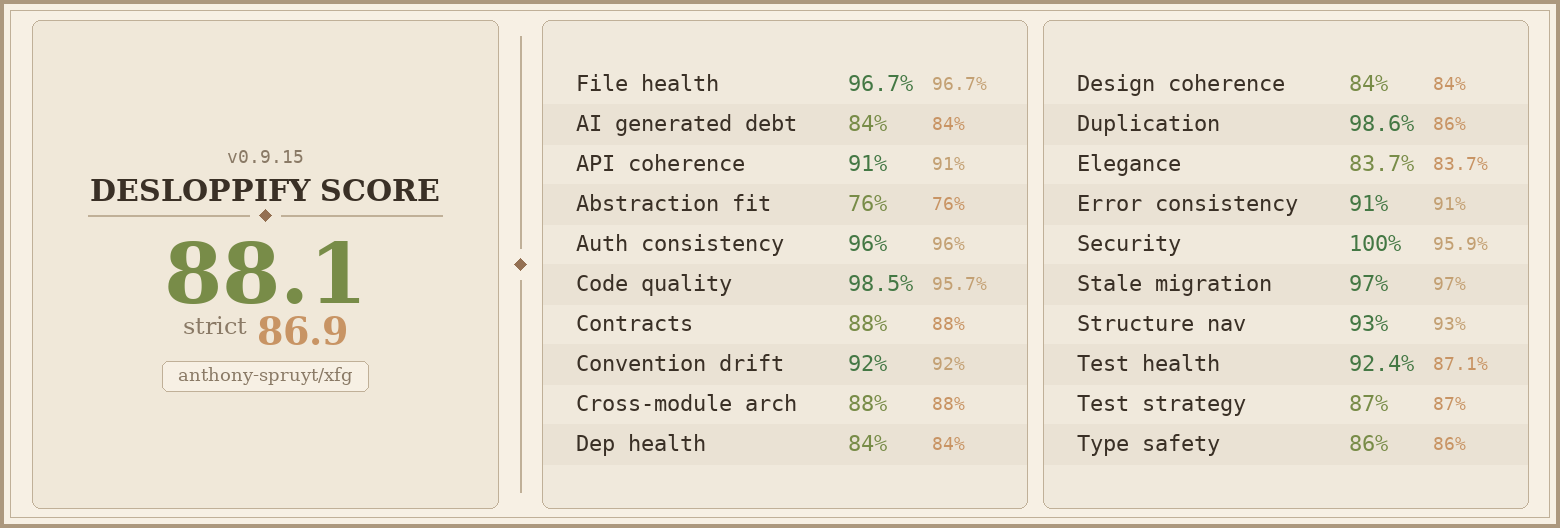
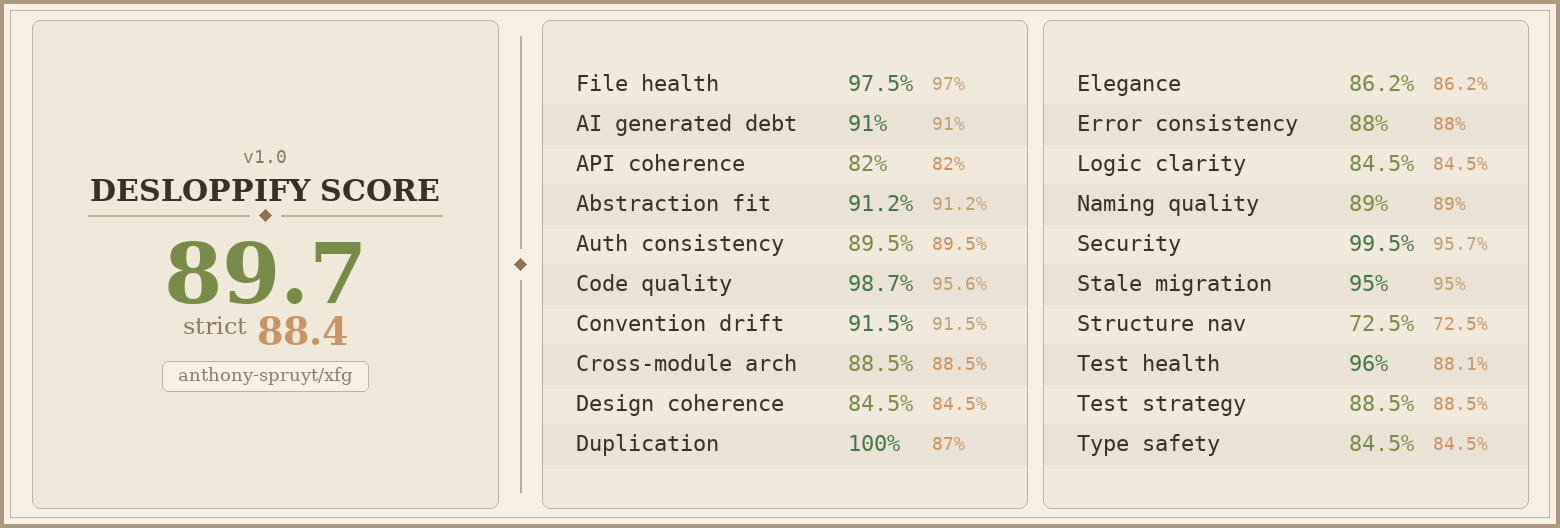
desloppify: fix mechanical code quality issues
- Add exhaustive default cases to 5 switch statements
- Extract magic numbers into named constants (MS_PER_SECOND, MAX_ERROR_MESSAGE_LENGTH)
- Remove unused import (MATCH_KEY_CANDIDATES)
- Fix bare catch in encryption.ts to preserve error cause
- Simplify hasAnyChanges boolean return pattern
- Extract validateGitHubResourceName and checkVariableSecretOverlap helpers
- Add development section to README
- Add desloppify scorecard

diff --git a/src/config/validator.ts b/src/config/validator.ts
@@ -350,6 +350,26 @@ export function validateForSync(config: RawConfig): void {
   validateVariableSecretOverlaps(config);
 }
 
+function checkVariableSecretOverlap(
+  vars: Record<string, unknown>,
+  secretNames: Set<string>,
+  context: string
+): void {
+  const { deleteOrphaned: _d, inherit: _i, ...varEntries } = vars;
+  const variableNames = Object.keys(varEntries).filter(
+    (k) => typeof varEntries[k] !== "boolean"
+  );
+  const overlapping = variableNames.filter((n) =>
+    secretNames.has(n.toUpperCase())
+  );
+  if (overlapping.length > 0) {
+    throw new ValidationError(
+      `${context}${overlapping.join(", ")} overlap between variables and secrets. ` +
+        "GitHub does not allow variables and secrets with the same name."
+    );
+  }
+}
+
 export function validateVariableSecretOverlaps(config: RawConfig): void {
   if (!config.secrets) return;
 
@@ -365,66 +385,31 @@ export function validateVariableSecretOverlaps(config: RawConfig): void {
 
   // Check root-level variables
   if (config.settings?.variables) {
-    const {
-      deleteOrphaned: _rd,
-      inherit: _ri,
-      ...rootVarEntries
-    } = config.settings.variables as Record<string, unknown>;
-    const rootVariableNames = Object.keys(rootVarEntries).filter(
-      (k) => typeof rootVarEntries[k] !== "boolean"
+    checkVariableSecretOverlap(
+      config.settings.variables as Record<string, unknown>,
+      secretNames,
+      ""
     );
-    const overlapping = rootVariableNames.filter((n) =>
-      secretNames.has(n.toUpperCase())
-    );
-    if (overlapping.length > 0) {
-      throw new ValidationError(
-        `${overlapping.join(", ")} overlap between root variables and secrets. ` +
-          "GitHub does not allow variables and secrets with the same name."
-      );
-    }
   }
 
+  // Check repo-level variables
   for (const repo of config.repos) {
-    const {
-      deleteOrphaned: _d,
-      inherit: _i,
-      ...varEntries
-    } = (repo.settings?.variables ?? {}) as Record<string, unknown>;
-    const variableNames = Object.keys(varEntries).filter(
-      (k) => typeof varEntries[k] !== "boolean"
+    checkVariableSecretOverlap(
+      (repo.settings?.variables ?? {}) as Record<string, unknown>,
+      secretNames,
+      `Repo '${repo.git}': `
     );
-    const overlapping = variableNames.filter((n) =>
-      secretNames.has(n.toUpperCase())
-    );
-    if (overlapping.length > 0) {
-      throw new ValidationError(
-        `Repo '${repo.git}': ${overlapping.join(", ")} overlap between variables and secrets. ` +
-          "GitHub does not allow variables and secrets with the same name."
-      );
-    }
   }
 
   // Check group-level variables
   if (isPlainObject(config.groups)) {
     for (const [groupName, group] of Object.entries(config.groups)) {
       if (!group.settings?.variables) continue;
-      const {
-        deleteOrphaned: _gd,
-        inherit: _gi,
-        ...groupVarEntries
-      } = group.settings.variables as Record<string, unknown>;
-      const groupVariableNames = Object.keys(groupVarEntries).filter(
-        (k) => typeof groupVarEntries[k] !== "boolean"
+      checkVariableSecretOverlap(
+        group.settings.variables as Record<string, unknown>,
+        secretNames,
+        `Group '${groupName}': `
       );
-      const overlapping = groupVariableNames.filter((n) =>
-        secretNames.has(n.toUpperCase())
-      );
-      if (overlapping.length > 0) {
-        throw new ValidationError(
-          `Group '${groupName}': ${overlapping.join(", ")} overlap between variables and secrets. ` +
-            "GitHub does not allow variables and secrets with the same name."
-        );
-      }
     }
   }
 
@@ -433,23 +418,11 @@ export function validateVariableSecretOverlaps(config: RawConfig): void {
     for (let i = 0; i < config.conditionalGroups.length; i++) {
       const cg = config.conditionalGroups[i];
       if (!cg.settings?.variables) continue;
-      const {
-        deleteOrphaned: _cd,
-        inherit: _ci,
-        ...cgVarEntries
-      } = cg.settings.variables as Record<string, unknown>;
-      const cgVariableNames = Object.keys(cgVarEntries).filter(
-        (k) => typeof cgVarEntries[k] !== "boolean"
+      checkVariableSecretOverlap(
+        cg.settings.variables as Record<string, unknown>,
+        secretNames,
+        `Conditional group ${i}: `
       );
-      const overlapping = cgVariableNames.filter((n) =>
-        secretNames.has(n.toUpperCase())
-      );
-      if (overlapping.length > 0) {
-        throw new ValidationError(
-          `Conditional group ${i}: ${overlapping.join(", ")} overlap between variables and secrets. ` +
-            "GitHub does not allow variables and secrets with the same name."
-        );
-      }
     }
   }
 }
@@ -495,30 +468,28 @@ export function hasActionableSettings(
   return false;
 }
 
-export function validateVariableName(name: string): void {
+function validateGitHubResourceName(
+  name: string,
+  kind: "Variable" | "Secret"
+): void {
   if (!VARIABLE_NAME_PATTERN.test(name)) {
     throw new ValidationError(
-      `Variable name '${name}' contains invalid characters. Only alphanumeric and underscore allowed.`
+      `${kind} name '${name}' contains invalid characters. Only alphanumeric and underscore allowed.`
     );
   }
   if (name.startsWith("GITHUB_")) {
     throw new ValidationError(
-      `Variable name '${name}' cannot start with 'GITHUB_' (reserved prefix).`
+      `${kind} name '${name}' cannot start with 'GITHUB_' (reserved prefix).`
     );
   }
 }
 
+export function validateVariableName(name: string): void {
+  validateGitHubResourceName(name, "Variable");
+}
+
 export function validateSecretName(name: string): void {
-  if (!VARIABLE_NAME_PATTERN.test(name)) {
-    throw new ValidationError(
-      `Secret name '${name}' contains invalid characters. Only alphanumeric and underscore allowed.`
-    );
-  }
-  if (name.startsWith("GITHUB_")) {
-    throw new ValidationError(
-      `Secret name '${name}' cannot start with 'GITHUB_' (reserved prefix).`
-    );
-  }
+  validateGitHubResourceName(name, "Secret");
 }
 
 function validateSecretEntry(name: string, config: SecretConfig): void {

diff --git a/src/vcs/graphql-commit-strategy.ts b/src/vcs/graphql-commit-strategy.ts
@@ -16,6 +16,9 @@ import { parseApiJson } from "../shared/json-utils.js";
 import { buildHostnameArgs, buildTokenEnv } from "../shared/gh-api-utils.js";
 import { ValidationError, GraphQLApiError } from "../shared/errors.js";
 
+/** Maximum length for GraphQL API error messages before truncation */
+const MAX_ERROR_MESSAGE_LENGTH = 2000;
+
 /**
  * Maximum payload size for GitHub GraphQL API (50MB).
  * Base64 encoding adds ~33% overhead, so raw content should be checked.
@@ -405,8 +408,9 @@ export class GraphQLCommitStrategy implements ICommitStrategy {
     }
 
     // Safety truncation for any remaining oversized messages
-    if (cleanMessage.length > 2000) {
-      cleanMessage = cleanMessage.substring(0, 2000) + "... (truncated)";
+    if (cleanMessage.length > MAX_ERROR_MESSAGE_LENGTH) {
+      cleanMessage =
+        cleanMessage.substring(0, MAX_ERROR_MESSAGE_LENGTH) + "... (truncated)";
     }
 
     return new GraphQLApiError(`Commit failed for ${repo}: ${cleanMessage}`, {

diff --git a/src/shared/retry-utils.ts b/src/shared/retry-utils.ts
@@ -111,6 +111,9 @@ export function isRateLimitError(error: unknown): boolean {
 /** Default delay (seconds) for rate limit errors when no Retry-After header is available. */
 const RATE_LIMIT_FALLBACK_DELAY_SECONDS = 60;
 
+/** Milliseconds per second, used to convert delay values for setTimeout. */
+const MS_PER_SECOND = 1000;
+
 function delay(ms: number): Promise<void> {
   return new Promise((resolve) => setTimeout(resolve, ms));
 }
@@ -217,7 +220,7 @@ export async function withRetry<T>(
           options?.log?.info(
             `Rate limited. Waiting ${retryAfterSeconds}s before retry...`
           );
-          await (options?._delay ?? delay)(retryAfterSeconds * 1000);
+          await (options?._delay ?? delay)(retryAfterSeconds * MS_PER_SECOND);
         }
 
         // Log the failure (existing behavior)

diff --git a/src/cli/unified-summary.ts b/src/cli/unified-summary.ts
@@ -124,19 +124,17 @@ function formatCombinedSummary(input: UnifiedSummaryInput): string {
 }
 
 function hasAnyChanges(input: UnifiedSummaryInput): boolean {
-  if (input.lifecycle && hasLifecycleChanges(input.lifecycle)) return true;
-  if (input.sync?.repos.some((r) => r.files.length > 0 || r.error)) return true;
-  if (
-    input.settings?.repos.some(
+  return (
+    (!!input.lifecycle && hasLifecycleChanges(input.lifecycle)) ||
+    !!input.sync?.repos.some((r) => r.files.length > 0 || r.error) ||
+    !!input.settings?.repos.some(
       (r) =>
         r.settings.length > 0 ||
         r.rulesets.length > 0 ||
         r.labels.length > 0 ||
         r.error
     )
-  )
-    return true;
-  return false;
+  );
 }
 
 // =============================================================================

diff --git a/src/vcs/github-app-token-manager.ts b/src/vcs/github-app-token-manager.ts
@@ -3,8 +3,11 @@ import { withRetry } from "../shared/retry-utils.js";
 import { SyncError } from "../shared/errors.js";
 import type { GitHubRepoInfo } from "../repo/index.js";
 
+/** Number of milliseconds per second */
+const MS_PER_SECOND = 1000;
+
 /** Duration to cache tokens (45 minutes in milliseconds) */
-const TOKEN_CACHE_DURATION_MS = 45 * 60 * 1000;
+const TOKEN_CACHE_DURATION_MS = 45 * 60 * MS_PER_SECOND;
 
 interface Installation {
   id: number;
@@ -57,7 +60,7 @@ export class GitHubAppTokenManager {
    * The JWT is signed with RS256 and valid for 10 minutes.
    */
   generateJWT(): string {
-    const now = Math.floor(Date.now() / 1000);
+    const now = Math.floor(Date.now() / MS_PER_SECOND);
 
     const header = {
       alg: "RS256",

diff --git a/src/secrets/encryption.ts b/src/secrets/encryption.ts
@@ -15,9 +15,10 @@ export class SodiumEncryptor implements ISecretEncryptor {
           const sodium = await import("libsodium-wrappers");
           await sodium.default.ready;
           this.sodium = sodium.default;
-        } catch {
+        } catch (error) {
           throw new Error(
-            "Failed to load libsodium-wrappers. Install it: npm install libsodium-wrappers"
+            "Failed to load libsodium-wrappers. Install it: npm install libsodium-wrappers",
+            { cause: error }
           );
         }
       })().catch((err) => {

diff --git a/src/settings/rulesets/diff.ts b/src/settings/rulesets/diff.ts
@@ -1,5 +1,5 @@
 import { RULESET_COMPARABLE_FIELDS, type Ruleset } from "../../config/index.js";
-import { MATCH_KEY_CANDIDATES, findMatchKey } from "../../config/merge.js";
+import { findMatchKey } from "../../config/merge.js";
 import { isPlainObject } from "../../shared/type-guards.js";
 import { camelToSnake } from "../../shared/string-utils.js";
 import { countActions, type SettingsAction } from "../base-processor.js";

diff --git a/src/settings/variables/processor.ts b/src/settings/variables/processor.ts
@@ -117,6 +117,11 @@ export class VariablesProcessor implements IVariablesProcessor {
           break;
         case "unchanged":
           break;
+
+        default: {
+          const _exhaustive: never = change.action;
+          throw new Error(`Unexpected variable action: ${String(_exhaustive)}`);
+        }
       }
     }
 

diff --git a/src/shared/file-status.ts b/src/shared/file-status.ts
@@ -12,5 +12,10 @@ export function formatStatusBadge(status: FileStatus): string {
       return chalk.gray("[UNCHANGED]");
     case "DELETED":
       return chalk.red("[DELETED]");
+
+    default: {
+      const _exhaustive: never = status;
+      throw new Error(`Unexpected file status: ${String(_exhaustive)}`);
+    }
   }
 }

diff --git a/src/settings/rulesets/processor.ts b/src/settings/rulesets/processor.ts
@@ -147,6 +147,11 @@ export class RulesetProcessor implements IRulesetProcessor {
 
         case "unchanged":
           break;
+
+        default: {
+          const _exhaustive: never = change.action;
+          throw new Error(`Unexpected ruleset action: ${String(_exhaustive)}`);
+        }
       }
     }
 

diff --git a/src/settings/labels/processor.ts b/src/settings/labels/processor.ts
@@ -143,6 +143,11 @@ export class LabelsProcessor implements ILabelsProcessor {
 
         case "unchanged":
           break;
+
+        default: {
+          const _exhaustive: never = change.action;
+          throw new Error(`Unexpected label action: ${String(_exhaustive)}`);
+        }
       }
     }
 

diff --git a/src/sync/diff-utils.ts b/src/sync/diff-utils.ts
@@ -295,6 +295,11 @@ function groupIntoHunks(
           lines.push(`+${newLines[op.newIdx]}`);
           newCount++;
           break;
+
+        default: {
+          const _exhaustive: never = op;
+          throw new Error(`Unexpected diff op: ${String(_exhaustive)}`);
+        }
       }
     }
 
